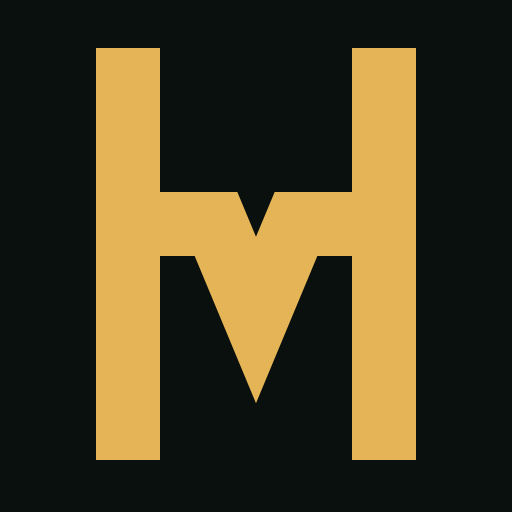
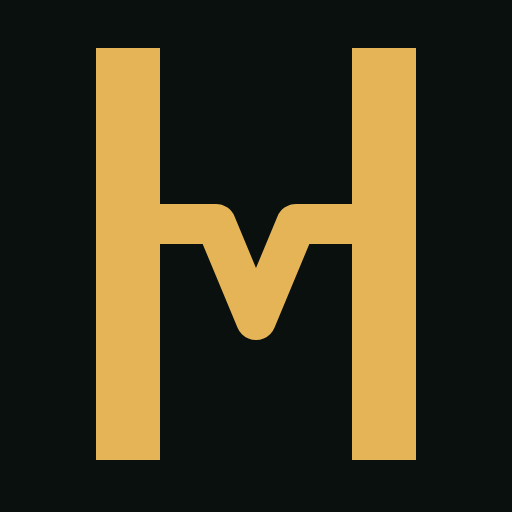
Thin the mark crossbar, add a cursor light to the hero

Changed region(s): [[0.3125, 0.4688, 0.6875, 0.7812], [0.3125, 0.375, 0.6875, 0.5312]]

diff --git a/script.js b/script.js
@@ -261,6 +261,8 @@
        The canvas is pointer-events:none so it never eats clicks, so track on
        the window and translate into canvas space. */
     if (!reduceMotion) {
+      var glow = document.getElementById("hero-cursor");
+
       var track = function (e) {
         var rect = canvas.getBoundingClientRect();
         var x = e.clientX - rect.left;
@@ -269,6 +271,11 @@
         cursor.on = x > -pad && x < rect.width + pad && y > -pad && y < rect.height + pad;
         cursor.x = x;
         cursor.y = y;
+        if (glow) {
+          glow.style.setProperty("--cx", x + "px");
+          glow.style.setProperty("--cy", y + "px");
+          glow.classList.toggle("on", cursor.on);
+        }
       };
 
       window.addEventListener("pointermove", track, { passive: true });
@@ -278,9 +285,15 @@
         if (e.pointerType === "touch") cursor.on = false;
       }, { passive: true });
       window.addEventListener("pointercancel", function () { cursor.on = false; }, { passive: true });
-      document.addEventListener("pointerleave", function () { cursor.on = false; });
+      document.addEventListener("pointerleave", function () {
+        cursor.on = false;
+        if (glow) glow.classList.remove("on");
+      });
       /* the hero scrolls out from under the pointer as often as the other way */
-      window.addEventListener("scroll", function () { cursor.on = false; }, { passive: true });
+      window.addEventListener("scroll", function () {
+        cursor.on = false;
+        if (glow) glow.classList.remove("on");
+      }, { passive: true });
     }
 
     var resizeTimer;

diff --git a/portfolio.html b/portfolio.html
@@ -31,7 +31,7 @@
       <svg class="mark-glyph" viewBox="0 0 32 32" aria-hidden="true" focusable="false">
         <g fill="none" stroke="currentColor" stroke-width="4" stroke-linecap="square" stroke-linejoin="miter">
           <path d="M8 5 V27"/><path d="M24 5 V27"/>
-          <path d="M8 14 L13.5 14 L16 20 L18.5 14 L24 14" stroke-linecap="butt"/>
+          <path d="M8 14 L13.5 14 L16 20 L18.5 14 L24 14" stroke-width="2.5" stroke-linecap="round" stroke-linejoin="round"/>
         </g>
       </svg>
       <span>Haydn McIntyre</span>
@@ -109,7 +109,7 @@
           <p class="project-meta">Website &middot; Solo build</p>
           <h3 class="project-title">This site</h3>
           <p class="project-desc">
-            Built by hand with no frameworks and no page builder. An animated particle
+            No frameworks, no page builder, no template. An animated particle
             field in the hero that reacts to the cursor, a scroll progress bar, live
             section tracking, and a lightbox on every screenshot. Made to work on a
             phone first and to stay quick.

diff --git a/styles.css b/styles.css
@@ -750,3 +750,21 @@ html { scrollbar-color: #2C3D34 var(--ground); scrollbar-width: thin; }
 .drop-menu a::after { content: none; }
 @media (prefers-reduced-motion: reduce) { .drop-menu { transition: none; } }
 .mobile-nav a.sub { padding-left: calc(var(--gutter) + 1.1rem); font-size: var(--fs-sm); color: var(--dim); }
+
+/* --- Cursor light in the hero ---------------------------------------------
+   Sits above the readability scrim but below the type, so it genuinely
+   lifts the dark left side instead of being crushed by the gradient. */
+.hero-cursor {
+  position: absolute; inset: 0; z-index: 1;
+  pointer-events: none;
+  background:
+    radial-gradient(300px circle at var(--cx, -300px) var(--cy, -300px),
+      rgba(63, 217, 192, 0.40), transparent 70%),
+    radial-gradient(620px circle at var(--cx, -300px) var(--cy, -300px),
+      rgba(28, 95, 74, 0.62), transparent 72%);
+  opacity: 0;
+  transition: opacity 0.45s var(--ease);
+  mix-blend-mode: screen;
+}
+.hero-cursor.on { opacity: 1; }
+@media (prefers-reduced-motion: reduce) { .hero-cursor { display: none; } }

diff --git a/index.html b/index.html
@@ -39,7 +39,7 @@
       <svg class="mark-glyph" viewBox="0 0 32 32" aria-hidden="true" focusable="false">
         <g fill="none" stroke="currentColor" stroke-width="4" stroke-linecap="square" stroke-linejoin="miter">
           <path d="M8 5 V27"/><path d="M24 5 V27"/>
-          <path d="M8 14 L13.5 14 L16 20 L18.5 14 L24 14" stroke-linecap="butt"/>
+          <path d="M8 14 L13.5 14 L16 20 L18.5 14 L24 14" stroke-width="2.5" stroke-linecap="round" stroke-linejoin="round"/>
         </g>
       </svg>
       <span>Haydn McIntyre</span>
@@ -82,6 +82,7 @@
   <section class="hero" id="top">
     <div class="hero-glow" aria-hidden="true"><span></span><span></span><span></span></div>
     <canvas class="hero-canvas" id="hero-canvas" aria-hidden="true"></canvas>
+    <div class="hero-cursor" id="hero-cursor" aria-hidden="true"></div>
     <div class="wrap hero-inner">
       <p class="hero-eyebrow rise" style="--d:0ms">Full stack developer</p>
       <h1 class="hero-title">
